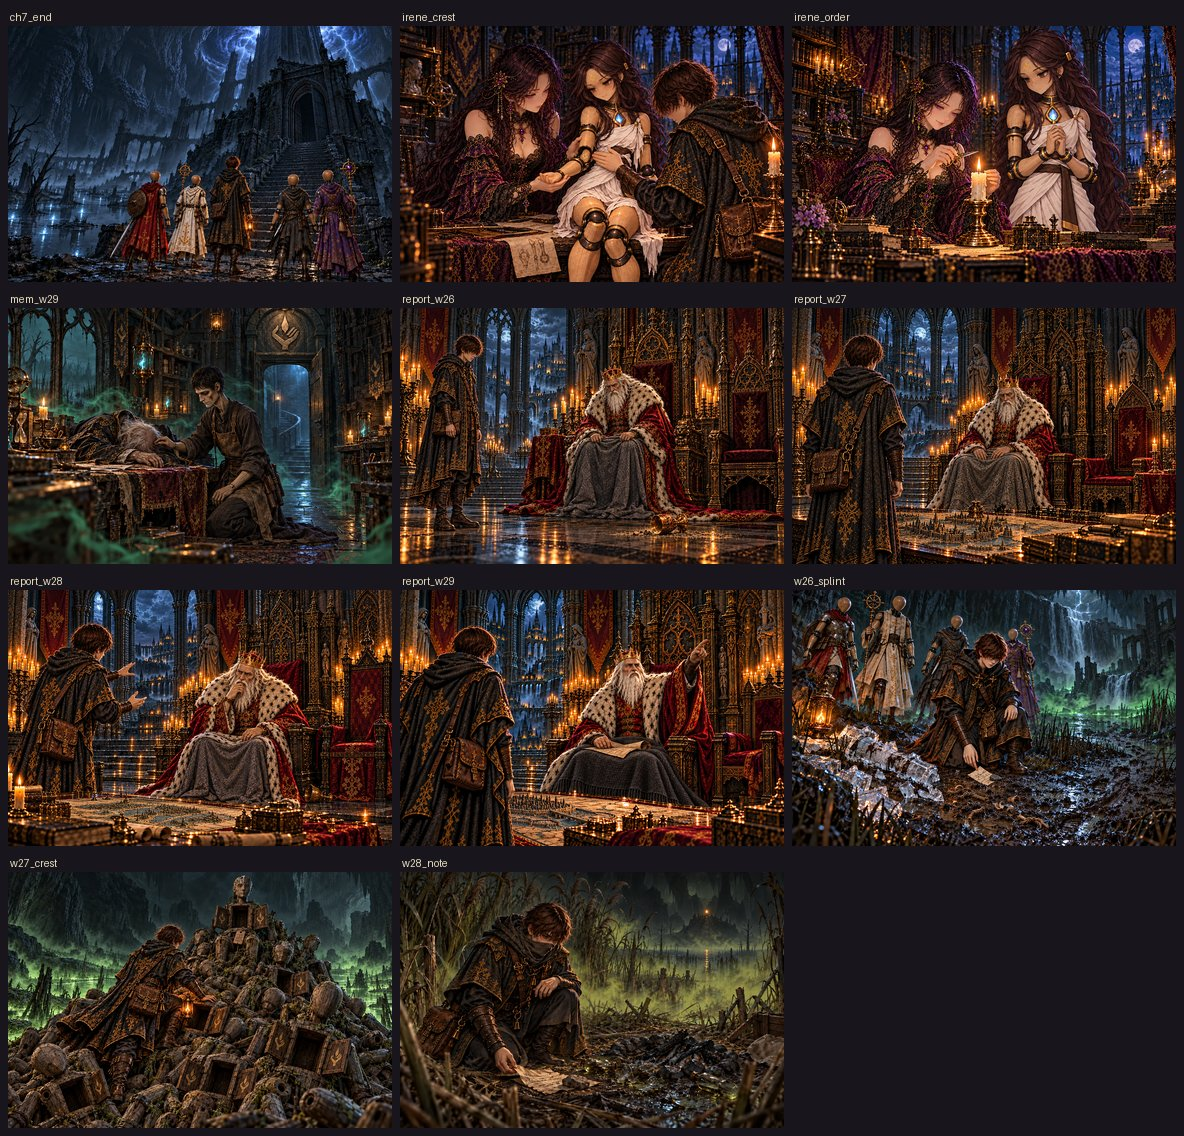
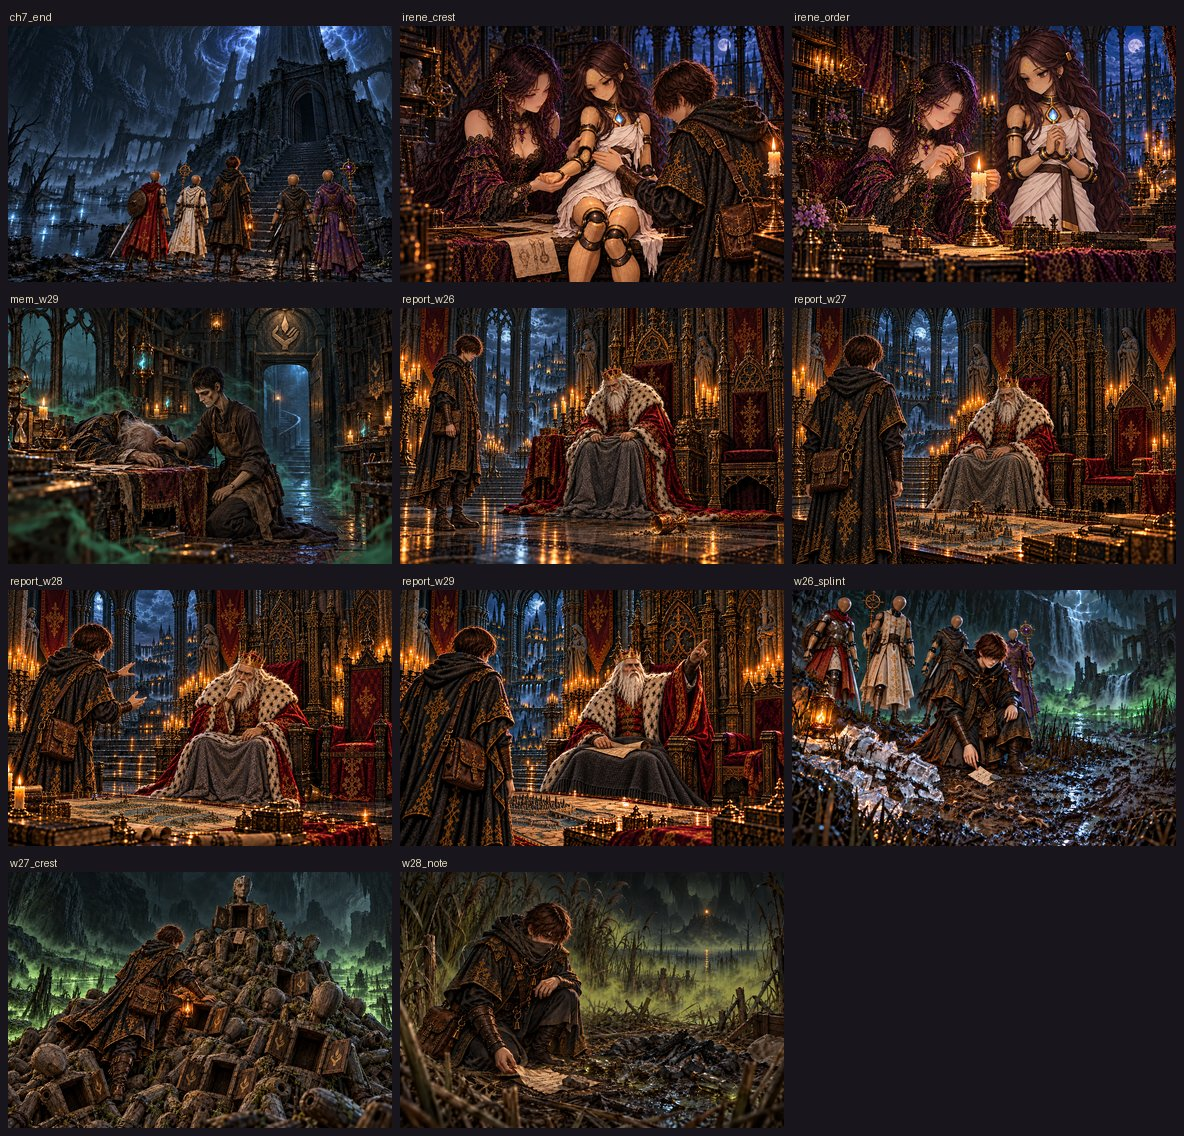
添え木の挿絵で後列の人業の脚を修正

Changed region(s): [[0.6562, 0.5238, 1.0, 0.7394]]

diff --git a/docs/art/codex-story-art-brief.md b/docs/art/codex-story-art-brief.md
@@ -219,6 +219,13 @@ Character reference sheet on a plain dark slate-blue background with soft even l
 
 ### A. 必須 (物語の筋や正典と食い違う)
 
+**A-46. 第七章 w26_splint「腕の木の添え木」後列の人業の脚を整理** `art/story-review/chapter7/w26_splint.png` (済)
+- ユーザー指示: 後ろにいる人業の足の位置と本数を修正。四体それぞれの腰から左右一本ずつ、腿・膝・すね・足首・足が自然につながるようにする。弟子や衣装の陰に隠れた脚は隠し、離れた場所に足だけを描かない。
+- 保つもの: 四体の顔のない丸い木の頭・上半身・衣装・武器、弟子、ランタン、氷、削りくず、縄の切れ端、石で押さえた一枚の紙、足跡、背景、構図と光。修正前は `art/story-review/fixes/w26_splint-legs-before.png` に保存。
+```text
+...except: repair ONLY the anatomically confused lower bodies, legs and feet of the FOUR wooden party dolls standing behind the kneeling apprentice. Each doll has exactly ONE pelvis, TWO thighs, TWO knees, TWO shins, TWO ankles and TWO feet, continuously connected with believable black iron articulated joints. Do not force eight feet to be visible: legs genuinely hidden behind the apprentice, the lantern or a robe must stay hidden rather than reappearing as orphan boots elsewhere. The far-left red-cloaked armored warrior stands naturally on two legs beneath its own hips; retain lantern occlusion. Specifically REBUILD the warrior's present sprawled lower body into a simple upright standing pose: two slim armored thighs descend from its own hips around x=150,y=240, knees near x=85 and x=185,y=365, shins descend toward two planted feet near x=80 and x=200,y=520 (1536x1024 coordinates). REMOVE the disconnected sideways armored calf/boot sprawled across x=160-300,y=445-555 immediately behind and to the right of the orange lantern; restore ordinary muddy ground there except the one correctly aligned planted warrior foot. No horizontally lying armored limbs, no crouching warrior, no third knee or spare boot. Keep the lantern and shield unchanged in front of the proper legs. The white-robed priest has two clearly separated slim wooden lower legs descending from its own hips beneath its robe, and just two planted feet immediately below, not a cluster of additional armored boots. The dark-leather thief at center-back has two legs correctly attached to its pelvis, with natural standing alignment and most of the lower body occluded by the apprentice; remove the stray splayed leg and detached dark feet crowded between the priest and the apprentice. The purple-robed mage at rear-right has two anatomically placed legs beneath its robe, mostly concealed by the foreground apprentice; do not add feet protruding from the apprentice or disconnected from the mage. Match the existing dolls reference for wooden limbs, compact black iron knees and ankles, adult proportions, and plain smooth faceless wooden heads. Reconstruct only the small exposed ground or robe folds where false limbs are removed. Preserve the existing camera, framing, all four heads, torsos, arms, hands, costumes above the hips, weapons, shields, the apprentice's exact anatomy and pose, the orange lantern, every half-melted ice fragment, wood shavings, short cut-off rope ends, the ONE stone-weighted note, footprints, waterfall, swamp, architecture, colors, fine pixel texture and lighting. No new characters, no extra limbs, no abandoned doll arms, no new objects, no readable text. Edit the FIRST image; the other references establish identity and doll anatomy only.
+```
+
 **A-45. 第七章 w26_splint「腕の木の添え木」持ち去った腕を岸から除く** `art/story-review/chapter7/w26_splint.png` (済)
 - 腕の添え木は師が脚に当てて持ち去った。手前の縄で束ねた木の腕二本と、その結び目の紙を除き、木の削りくずと短い縄の切れ端に替える。紙は一枚だけ、平たい石で押さえて泥の上に残す。弟子が手に持つ紙をその一枚として地面へ移し、弟子はその紙に手を伸ばす。氷のかけら・人物・背景・光・画風は保つ。
 ```text

diff --git a/art/story-review/fixes/w26_splint.md b/art/story-review/fixes/w26_splint.md
@@ -18,3 +18,12 @@
 `mem_w33` と `ordo-states.png` は、短い固定具が脚に残る絵として整合するため維持。岸の由来の文と `lore_w26` の腕は、流れ着いた別の器の腕なので維持。`sigil-audit/evidence.json` など当時の本文を保存した過去の監査スナップショットは書き換えず、この修正記録を残す。現行の確認ページと旧一覧HTMLの対象二場面は更新済み。
 
 検証: `python3 tools/storyart/build.py`（原画とWebPの一致・画像登録・制作指示・読み物159場面）、変更したJS五ファイルの `node --check`、`git diff --check`。Chromiumで修正前後を384×256、旧描画二種を4倍表示し、描画エラーがないことと、岸に腕の束が残っていないことを確認した。
+
+## 後列の人業の脚の追加修正
+
+2026-10-17。ユーザーの指摘により、後列四体の脚の位置・本数・重なりを修正。白衣の人業の足を二本に整理し、革衣の人業の脚を腰から自然につなげ、赤い外套の戦士は横へ崩れた脚を立ち姿へ整えた。弟子の陰に隠れる脚は隠したままにし、離れた足だけが見える描写を除いた。前回修正した氷・削りくず・縄の切れ端・石で押さえた一枚の紙は保持。
+
+- [脚の修正前](w26_splint-legs-before.png)
+- [修正前後と脚の拡大比較](w26_splint-legs-review.png)
+
+原画からWebPと第七章の縮小見本を再生成し、画像登録・制作指示・読み物の検査を実施。
